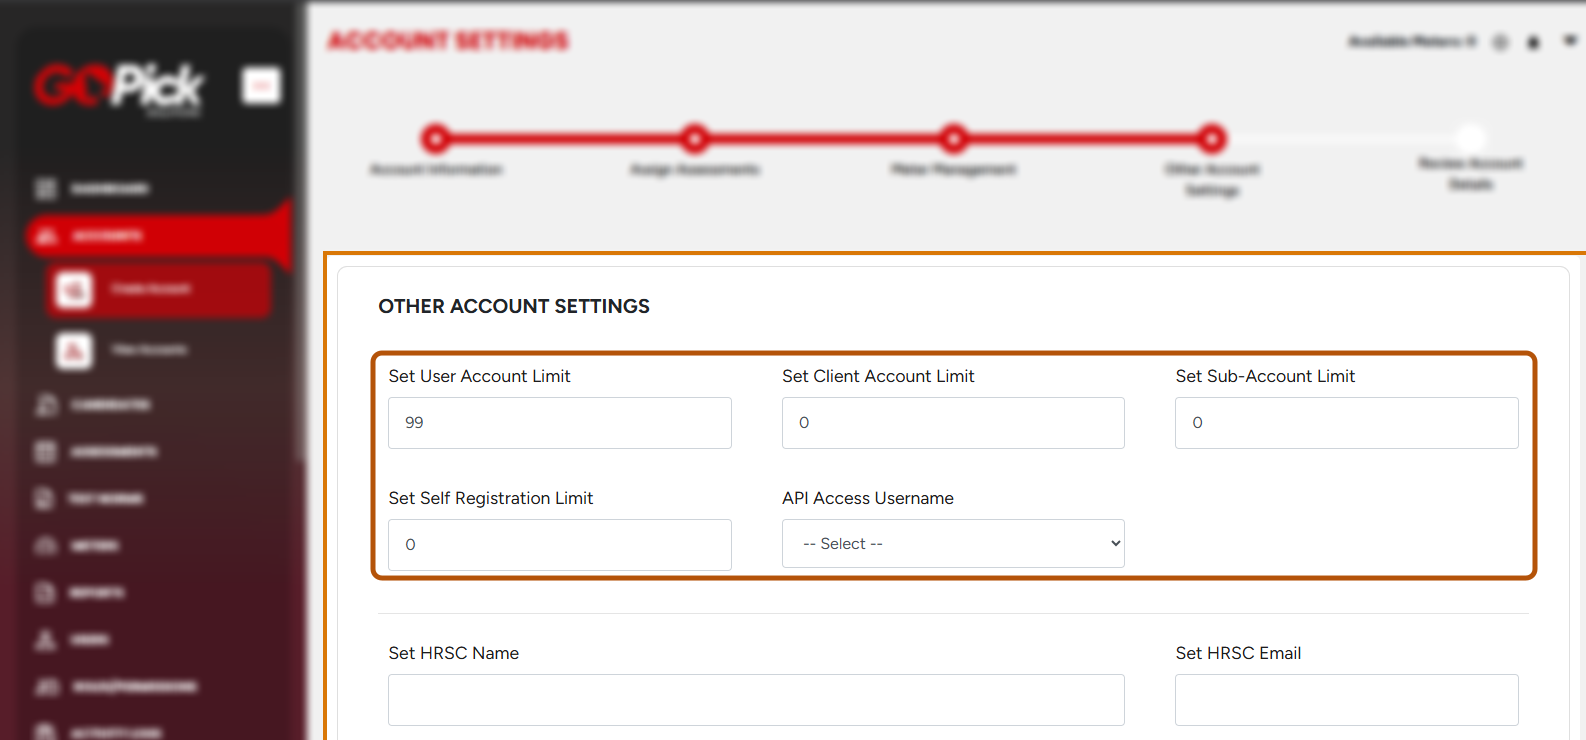
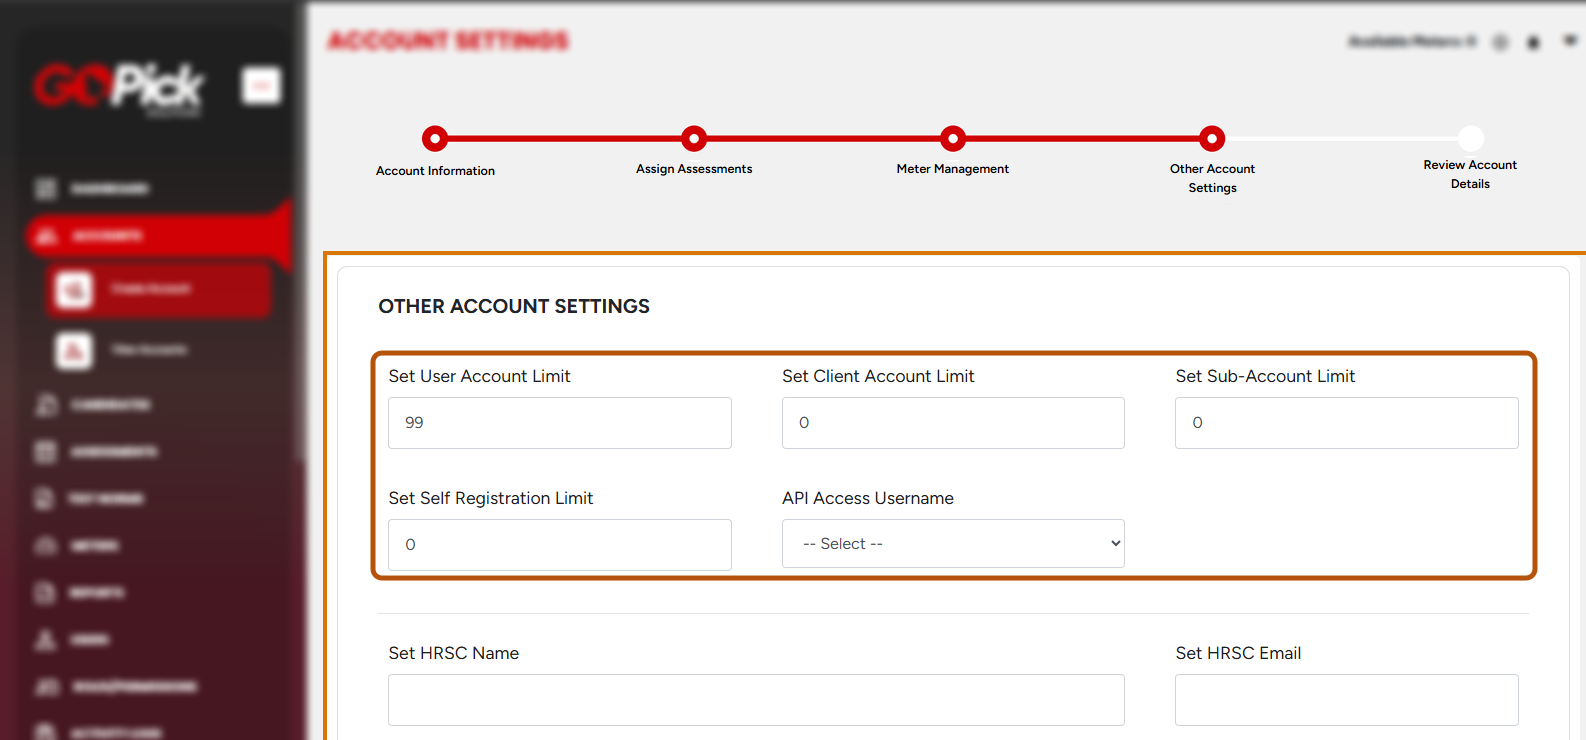
fix(accounts-management): unblur steppers and regroup update specific images
- Redraw sharp stepper labels on the create account and update specific screenshots
- Label the five fixed demographics fields Locked and the rest Editable
- Move each update specific form screenshot into its matching section carousel
- Bump the dataFiller.js version

Changed region(s): [[0.2163, 0.1554, 0.8033, 0.2797], [0.896, 0.1865, 0.9578, 0.2797]]

diff --git a/pages/workflow/accounts-management/assets/js/dataFiller.js b/pages/workflow/accounts-management/assets/js/dataFiller.js
@@ -431,32 +431,6 @@
             id: 'update-specific',
             title: 'Update Specific',
             detail: 'Updates one account detail section from the account detail page. The available update form depends on the account detail section where the update is triggered.',
-            images: [
-                {
-                    title: 'Update Specific Form: Account Information',
-                    caption: 'Section-isolated update view within the account detail page.',
-                    src: 'assets/img/update-specific-account-information.png',
-                    alt: 'Update Account: Account Information form with a two-step progress bar, read-only account type, username and parent account, and editable contact fields'
-                },
-                {
-                    title: 'Update Specific Form: Assign Products',
-                    caption: 'Assign Products update form outlined, with the Next button emphasized and the account name blurred.',
-                    src: 'assets/img/update-specific-assign-products.png',
-                    alt: 'Update Account: Assign Products page with the form card outlined, showing the Update Assessment button and assessment category dropdowns; the Next button is emphasized and the account name is blurred'
-                },
-                {
-                    title: 'Update Specific Form: Meter Management',
-                    caption: 'Meter Management update form outlined, with the Review Changes button emphasized.',
-                    src: 'assets/img/update-specific-meter-management.png',
-                    alt: 'Meter Management page with the form card outlined, showing the View Meter Log button, the Metering Management Type option, and Current Meters; the Review Changes button is emphasized'
-                },
-                {
-                    title: 'Update Specific Form: Other Account Settings',
-                    caption: 'Other Account Settings update form outlined, showing the account limits and contact fields.',
-                    src: 'assets/img/update-specific-other-account-settings.png',
-                    alt: 'Account Settings page with the Other Account Settings form card outlined, showing account limit fields, API Access Username, and HRSC and Assessment Specialist fields'
-                }
-            ],
             rules: ['Updating the current user own account only opens the Account Information variant.', 'Password fields are not prefilled.'],
             accessPath: 'Accounts > View Accounts > Row Actions > View > Section > Update',
             howToUse: [
@@ -479,12 +453,20 @@
                 {
                     id: 'update-specific-account-information',
                     title: 'Account Information',
-                    images: [{
-                        title: 'Update Specific: Account Information',
-                        caption: 'Account Information tab with the section card and the Update button outlined.',
-                        src: 'assets/img/update-specific-group-account-information.png',
-                        alt: 'View Account page with the Account Information card and its Update button outlined; personal values are blurred'
-                    }],
+                    images: [
+                        {
+                            title: 'Update Specific: Account Information',
+                            caption: 'Account Information tab with the section card and the Update button outlined.',
+                            src: 'assets/img/update-specific-group-account-information.png',
+                            alt: 'View Account page with the Account Information card and its Update button outlined; personal values are blurred'
+                        },
+                        {
+                            title: 'Update Specific Form: Account Information',
+                            caption: 'Account Information update form opened after selecting Update.',
+                            src: 'assets/img/update-specific-account-information.png',
+                            alt: 'Update Account: Account Information form with a two-step progress bar, read-only account type, username and parent account, and editable contact fields'
+                        }
+                    ],
                     items: [
                         {
                             label: 'Locked inputs',
@@ -528,12 +510,20 @@
                 {
                     id: 'update-specific-assigned-assessments',
                     title: 'Assigned Assessments',
-                    images: [{
-                        title: 'Update Specific: Assigned Assessments',
-                        caption: 'Assigned Assessments tab with the assessment list and the Update button outlined.',
-                        src: 'assets/img/update-specific-group-assigned-assessments.png',
-                        alt: 'View Account page with the Assigned Assessments card, its Manage and Change Log actions, and the Update button outlined'
-                    }],
+                    images: [
+                        {
+                            title: 'Update Specific: Assigned Assessments',
+                            caption: 'Assigned Assessments tab with the assessment list and the Update button outlined.',
+                            src: 'assets/img/update-specific-group-assigned-assessments.png',
+                            alt: 'View Account page with the Assigned Assessments card, its Manage and Change Log actions, and the Update button outlined'
+                        },
+                        {
+                            title: 'Update Specific Form: Assign Products',
+                            caption: 'Assign Products update form outlined, with the Next button emphasized and the account name blurred.',
+                            src: 'assets/img/update-specific-assign-products.png',
+                            alt: 'Update Account: Assign Products page with the form card outlined, showing the Update Assessment button and assessment category dropdowns; the Next button is emphasized and the account name is blurred'
+                        }
+                    ],
                     items: [
                         {
                             label: 'Editable inputs',
@@ -548,12 +538,20 @@
                 {
                     id: 'update-specific-meter-management',
                     title: 'Meter Management',
-                    images: [{
-                        title: 'Update Specific: Meter Management',
-                        caption: 'Meter Management tab with the section card and the Update button outlined next to View Meter Logs.',
-                        src: 'assets/img/update-specific-group-meter-management.png',
-                        alt: 'View Account page with the Meter Management card and its Update and View Meter Logs buttons, with the Update button outlined'
-                    }],
+                    images: [
+                        {
+                            title: 'Update Specific: Meter Management',
+                            caption: 'Meter Management tab with the section card and the Update button outlined next to View Meter Logs.',
+                            src: 'assets/img/update-specific-group-meter-management.png',
+                            alt: 'View Account page with the Meter Management card and its Update and View Meter Logs buttons, with the Update button outlined'
+                        },
+                        {
+                            title: 'Update Specific Form: Meter Management',
+                            caption: 'Meter Management update form outlined, with the Review Changes button emphasized.',
+                            src: 'assets/img/update-specific-meter-management.png',
+                            alt: 'Meter Management page with the form card outlined, showing the View Meter Log button, the Metering Management Type option, and Current Meters; the Review Changes button is emphasized'
+                        }
+                    ],
                     items: [
                         {
                             label: 'Editable inputs',
@@ -575,12 +573,20 @@
                 {
                     id: 'update-specific-other-account-settings',
                     title: 'Other Account Settings',
-                    images: [{
-                        title: 'Update Specific: Other Account Settings',
-                        caption: 'Other Account Settings tab with the section card and the Update button outlined.',
-                        src: 'assets/img/update-specific-group-other-account-settings.png',
-                        alt: 'View Account page with the Other Account Settings card showing user limits, usage settings, and contract settings, with the Update button outlined'
-                    }],
+                    images: [
+                        {
+                            title: 'Update Specific: Other Account Settings',
+                            caption: 'Other Account Settings tab with the section card and the Update button outlined.',
+                            src: 'assets/img/update-specific-group-other-account-settings.png',
+                            alt: 'View Account page with the Other Account Settings card showing user limits, usage settings, and contract settings, with the Update button outlined'
+                        },
+                        {
+                            title: 'Update Specific Form: Other Account Settings',
+                            caption: 'Other Account Settings update form outlined, showing the account limits and contact fields.',
+                            src: 'assets/img/update-specific-other-account-settings.png',
+                            alt: 'Account Settings page with the Other Account Settings form card outlined, showing account limit fields, API Access Username, and HRSC and Assessment Specialist fields'
+                        }
+                    ],
                     items: [
                         {
                             label: 'Editable inputs',
@@ -837,19 +843,19 @@
                 title: 'Demographics',
                 images: [{
                     title: 'Demographics',
-                    caption: 'Content Manager: Demographics with the Manage Demographics Form outlined, showing the five required fields checked, the optional field checkboxes, and the Save Changes button emphasized.',
+                    caption: 'Content Manager: Demographics with the Manage Demographics Form outlined, showing the five locked fields checked, the editable field checkboxes, and the Save Changes button emphasized.',
                     src: 'assets/img/demographics.png',
-                    alt: 'Content Manager Demographics page with the Manage Demographics Form outlined, required fields checked, optional field checkboxes, and the Save Changes button emphasized'
+                    alt: 'Content Manager Demographics page with the Manage Demographics Form outlined, locked fields checked, editable field checkboxes, and the Save Changes button emphasized'
                 }],
                 detail: 'Manages which demographic fields appear in the candidate-side demographics form.',
                 actions: ['Save Button'],
                 items: [
                     {
-                        label: 'Required inputs',
+                        label: 'Locked inputs',
                         children: ['First Name', 'Last Name', 'Gender', 'Email', 'Position Applied']
                     },
                     {
-                        label: 'Optional inputs',
+                        label: 'Editable inputs',
                         children: [
                             'Birthdate',
                             'Civil Status',
@@ -873,7 +879,7 @@
                 accessPath: 'Accounts > View Accounts > Row Actions > View > Account Configuration Dropdown > Demographics',
                 howToUse: ['Open Demographics.', 'Toggle demographic fields that should appear.', 'Save changes.'],
                 rules: [
-                    'First Name, Last Name, Gender, Email, and Position Applied are required by default and cannot be toggled off.',
+                    'First Name, Last Name, Gender, Email, and Position Applied are locked on and cannot be toggled off.',
                     'This page can be hidden for a specific account group by Super Admin configuration.'
                 ],
                 expected: ['Demographic data gathering is updated.', 'If the page is not visible, the account is not allowed to use this function.'],

diff --git a/pages/workflow/accounts-management/index.html b/pages/workflow/accounts-management/index.html
@@ -168,7 +168,7 @@
   <script src="../../../shared/js/ui/docsComponents.js?v=20261029-shadcn-blocks" defer></script>
   <script src="../../../shared/js/ui/docsSkeleton.js?v=20261029-skeleton" defer></script>
   <script src="../../../shared/js/ui/docsScreenshotViewer.js?v=20261028-docs-flow" defer></script>
-  <script src="assets/js/dataFiller.js?v=20261028-update-specific-forms" defer></script>
+  <script src="assets/js/dataFiller.js?v=20261029-update-specific-images" defer></script>
   <script src="assets/js/contentStore.js?v=20261028-docs-page" defer></script>
   <script src="assets/js/flowBuilders.js?v=20261029-shadcn-blocks" defer></script>
   <script src="assets/js/viewBuilders.js?v=20261029-shadcn-blocks" defer></script>

diff --git a/docs/workflow/account-management.md b/docs/workflow/account-management.md
@@ -463,8 +463,8 @@ Manages which demographic fields appear in the candidate-side demographics form.
 3. Save changes.
 
 > Rules:
-> - `First Name`, `Last Name`, `Gender`, `Email`, and `Position Applied` are required by default and cannot be toggled off.
-> - Optional toggle fields include `Birthdate`, `Civil Status`, `Alternative/Work Email`, `Phone Number`, `Educational Attainment`, `Work Experience`, `Level of Position Applying For`, `Course`, `Priority Course`, `Region of Residence`, `Agency Visited`, `Service Availed`, `Customer Type`, `Age`, `Transaction Type`, and `School`.
+> - `First Name`, `Last Name`, `Gender`, `Email`, and `Position Applied` are locked on and cannot be toggled off.
+> - Editable toggle fields include `Birthdate`, `Civil Status`, `Alternative/Work Email`, `Phone Number`, `Educational Attainment`, `Work Experience`, `Level of Position Applying For`, `Course`, `Priority Course`, `Region of Residence`, `Agency Visited`, `Service Availed`, `Customer Type`, `Age`, `Transaction Type`, and `School`.
 > - This page can be hidden for a specific account group by Super Admin configuration.
 
 > Expected Result:
